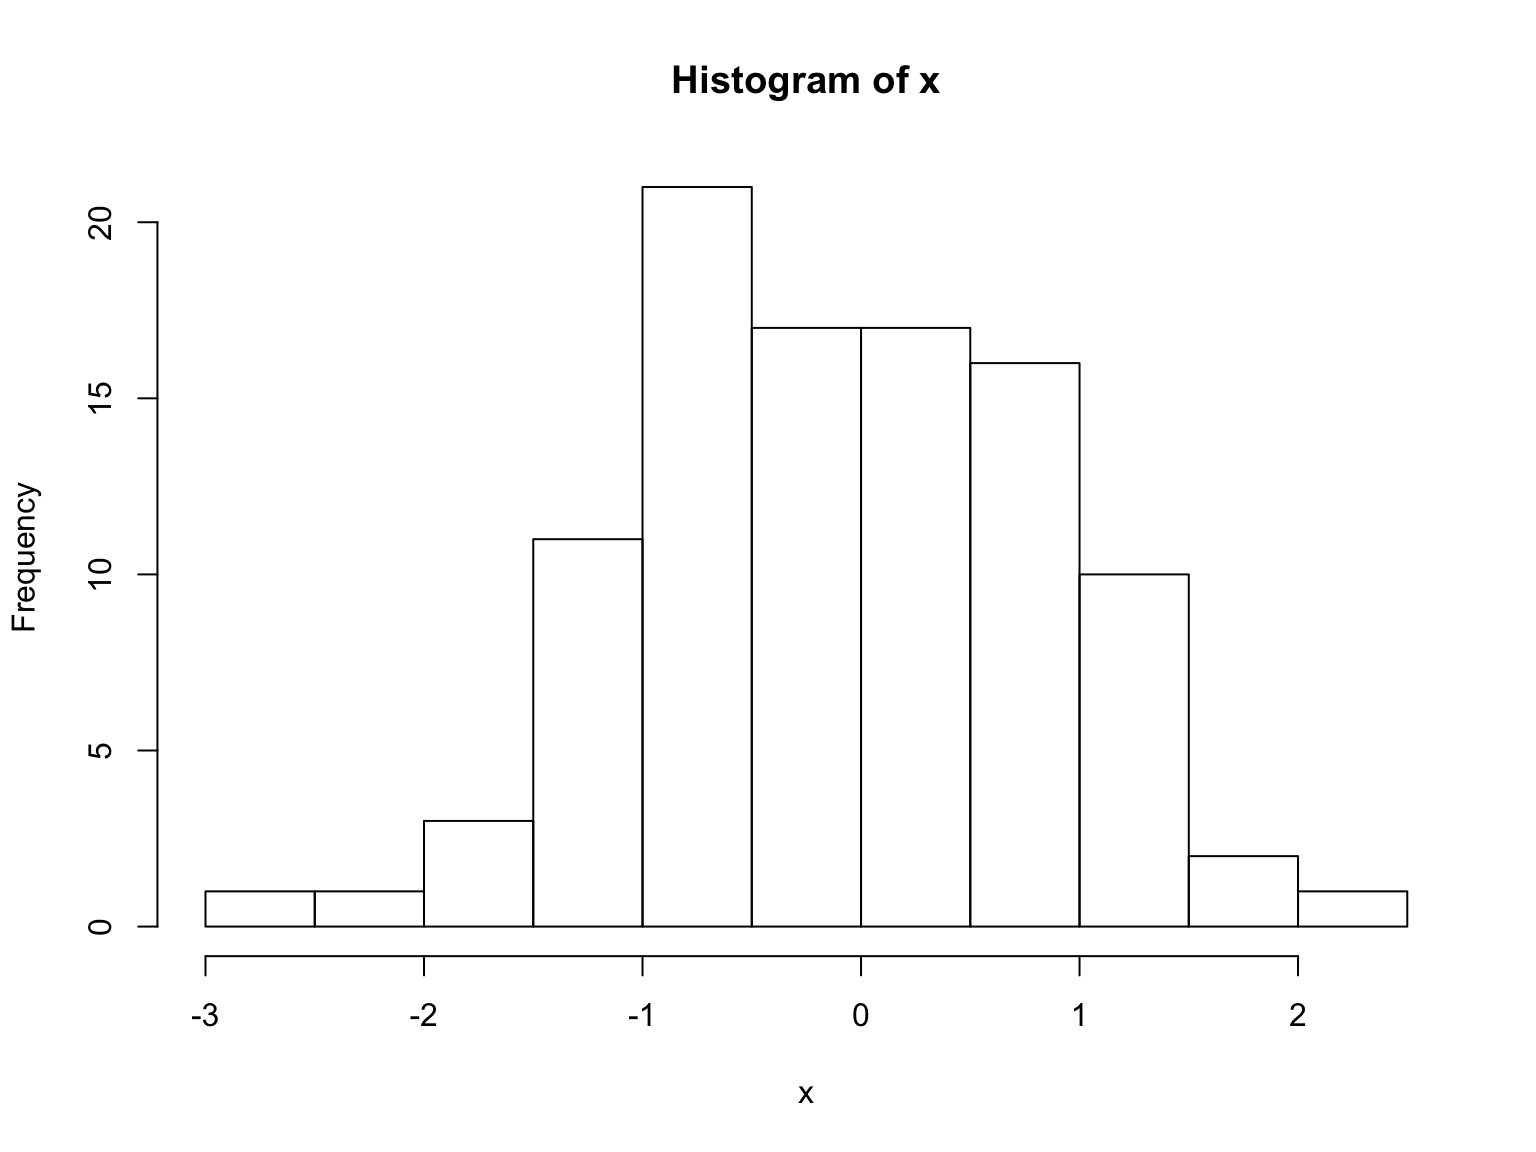
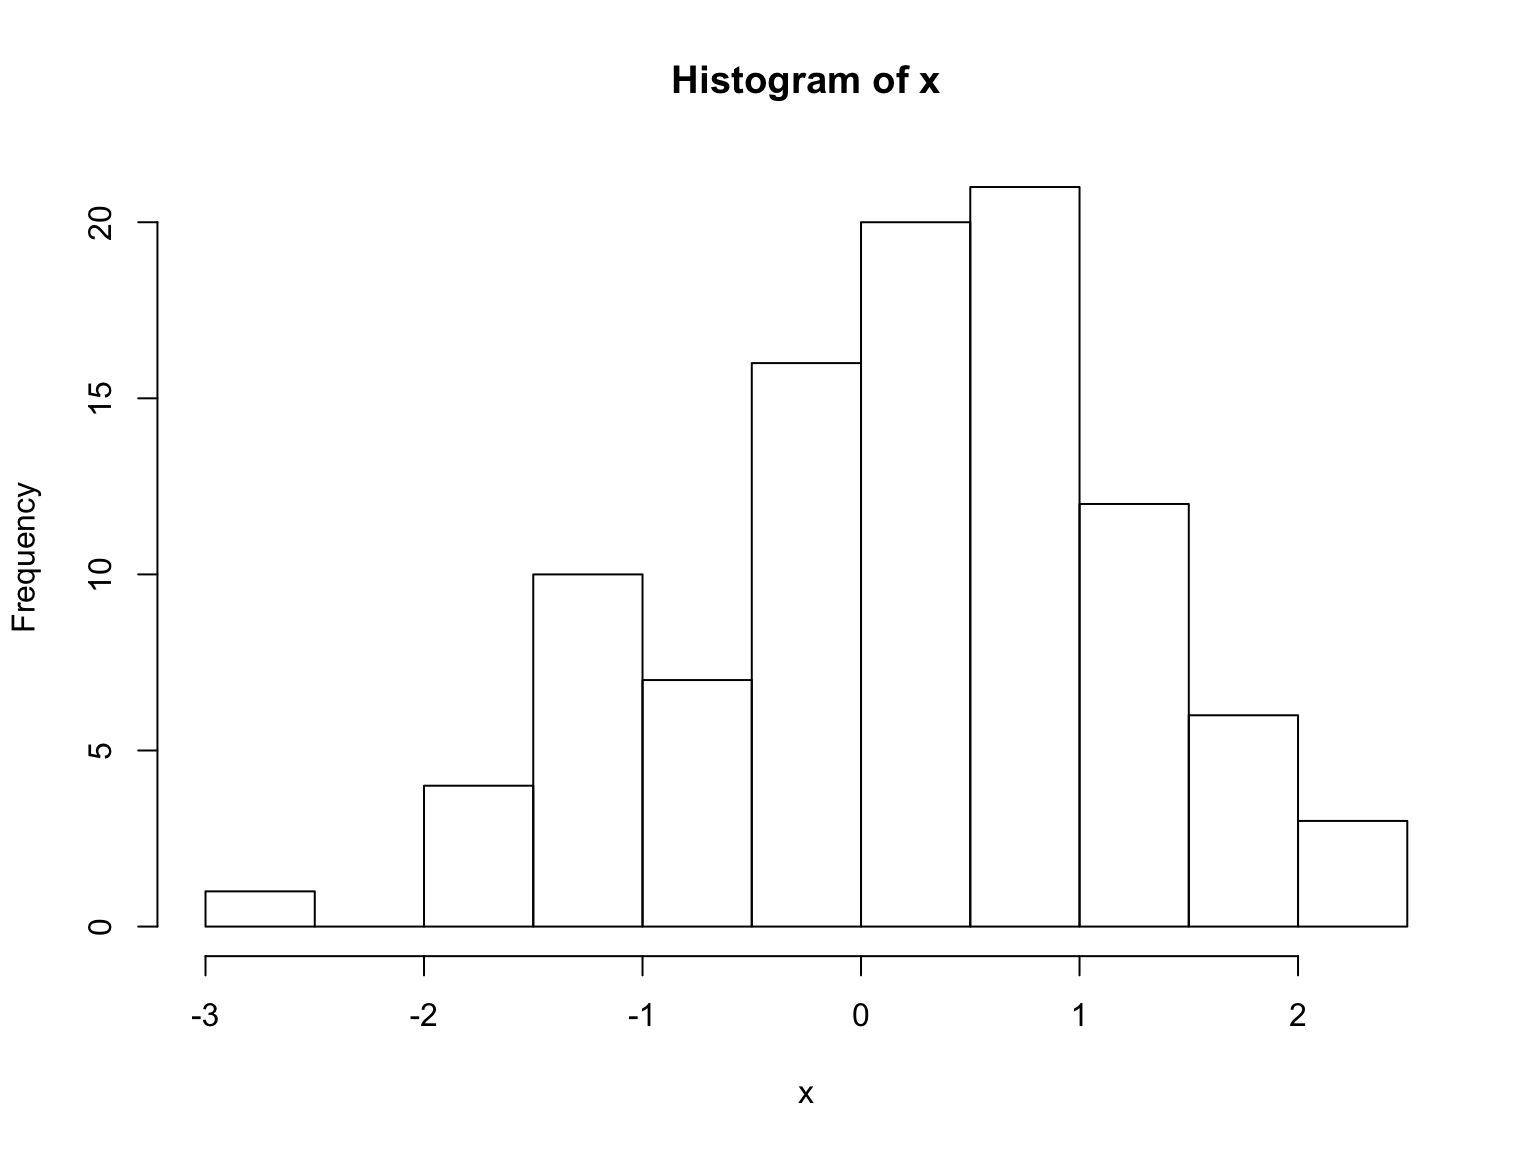
post-talk cleanup

Changed region(s): [[0.3438, 0.4688, 0.4375, 0.5], [0.75, 0.4688, 0.7812, 0.5]]

diff --git a/index.html b/index.html
@@ -667,7 +667,17 @@ Wikipedia
 
 <p><img src="img/gilmore-practical-solutions.jpg" width="700px" style="display: block; margin: auto;" /></p>
 </section></section>
-<section><section id="reproducible-workflows" class="title-slide slide level1"><h1>Reproducible workflows</h1></section><section class="slide level2">
+<section><section id="reproducible-workflows" class="title-slide slide level1"><h1>Reproducible workflows</h1></section><section id="fair-data-principles" class="slide level2">
+<h2>FAIR data principles</h2>
+<p>Data should be…</p>
+<ul>
+<li><strong>F</strong>indable</li>
+<li><strong>A</strong>ccessible</li>
+<li><strong>I</strong>nteroperable</li>
+<li><strong>R</strong>eusable</li>
+</ul>
+<p><a href="https://doi.org/10.1038/sdata.2016.18">Wilkinson et al. 2016</a></p>
+</section><section class="slide level2">
 
 <ul>
 <li>Data in interoperable formats (.txt or .csv)</li>
@@ -746,7 +756,7 @@ source(&quot;R/Visualize_data.R&quot;)
 hist(x)</code></pre>
 </section><section id="section" class="slide level2">
 <h2><img src="index_files/figure-revealjs/unnamed-chunk-11-1.png" width="700px" style="display: block; margin: auto;" /></h2>
-<p>The mean is -0.104749, the range is [-2.6271174, 2.2617879].</p>
+<p>The mean is 0.2120756, the range is [-2.5381451, 2.1232349].</p>
 </section><section id="ways-to-use-r-markdown" class="slide level2">
 <h2>Ways to use R Markdown</h2>
 <ul>
@@ -898,7 +908,7 @@ hist(x)</code></pre>
 ## Running under: macOS Mojave 10.14.6
 ## 
 ## Matrix products: default
-## BLAS: /Library/Frameworks/R.framework/Versions/3.5/Resources/lib/libRblas.0.dylib
+## BLAS: /System/Library/Frameworks/Accelerate.framework/Versions/A/Frameworks/vecLib.framework/Versions/A/libBLAS.dylib
 ## LAPACK: /Library/Frameworks/R.framework/Versions/3.5/Resources/lib/libRlapack.dylib
 ## 
 ## locale:
@@ -908,10 +918,11 @@ hist(x)</code></pre>
 ## [1] stats     graphics  grDevices utils     datasets  methods   base     
 ## 
 ## loaded via a namespace (and not attached):
-##  [1] compiler_3.5.3  magrittr_1.5    tools_3.5.3     htmltools_0.3.6
-##  [5] revealjs_0.9    yaml_2.2.0      Rcpp_1.0.1      stringi_1.4.3  
-##  [9] rmarkdown_1.13  highr_0.8       knitr_1.23      stringr_1.4.0  
-## [13] xfun_0.8        digest_0.6.19   evaluate_0.14</code></pre>
+##  [1] compiler_3.5.3   magrittr_1.5     rsconnect_0.8.13 htmltools_0.3.6 
+##  [5] tools_3.5.3      revealjs_0.9     yaml_2.2.0       Rcpp_1.0.1      
+##  [9] stringi_1.4.3    rmarkdown_1.13   highr_0.8        knitr_1.23      
+## [13] stringr_1.4.0    digest_0.6.19    xfun_0.8         packrat_0.5.0   
+## [17] evaluate_0.14</code></pre>
 </section></section>
     </div>
   </div>
